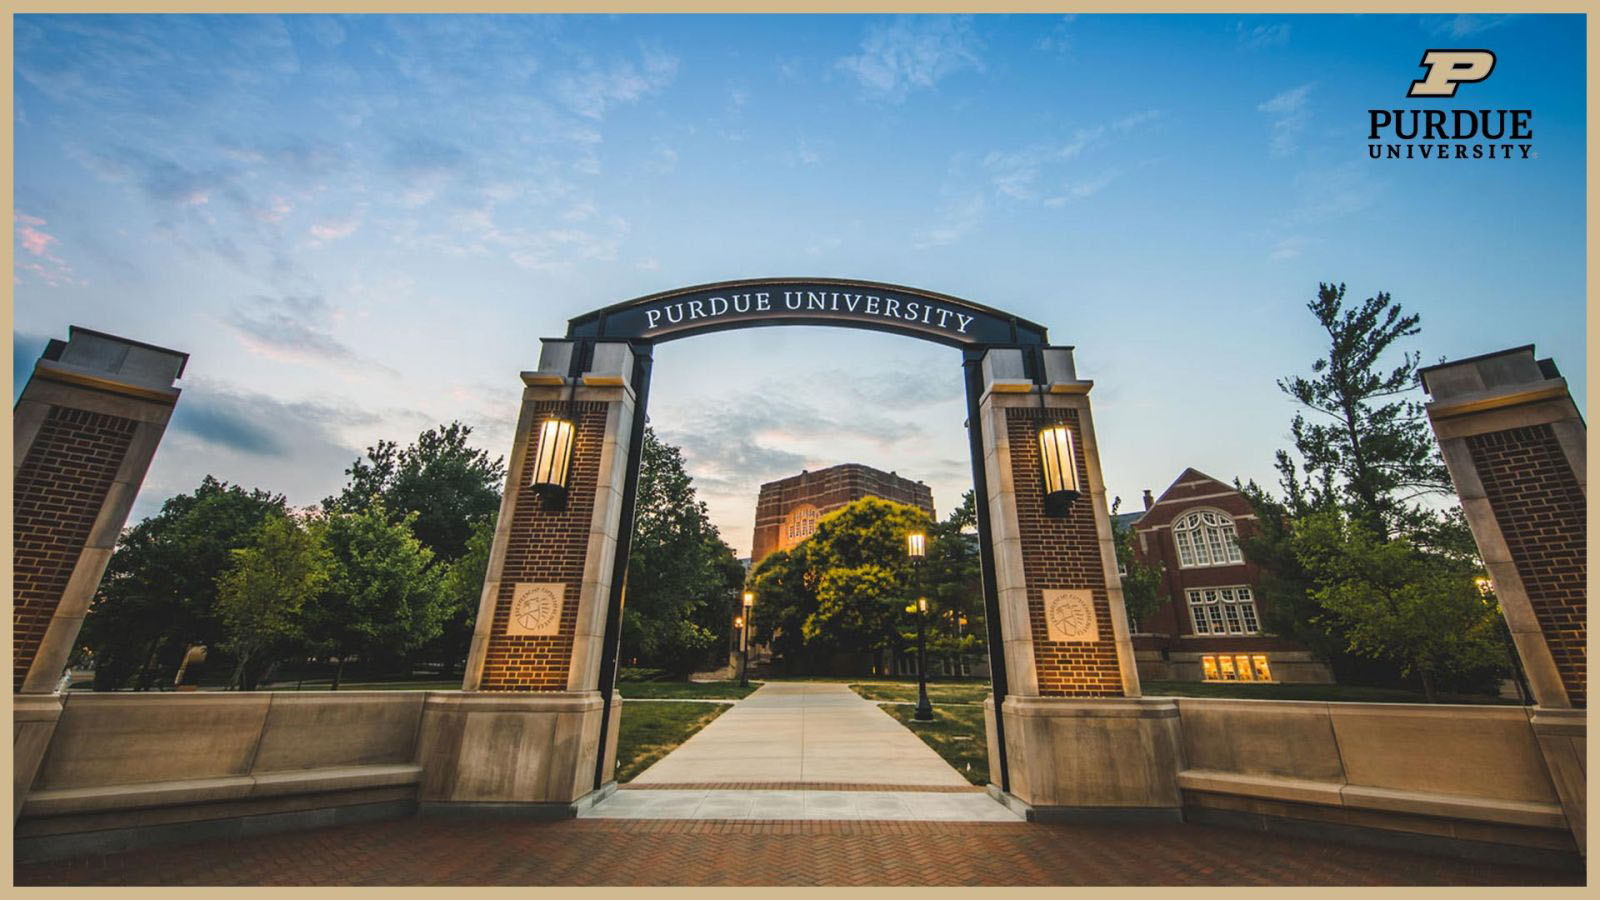
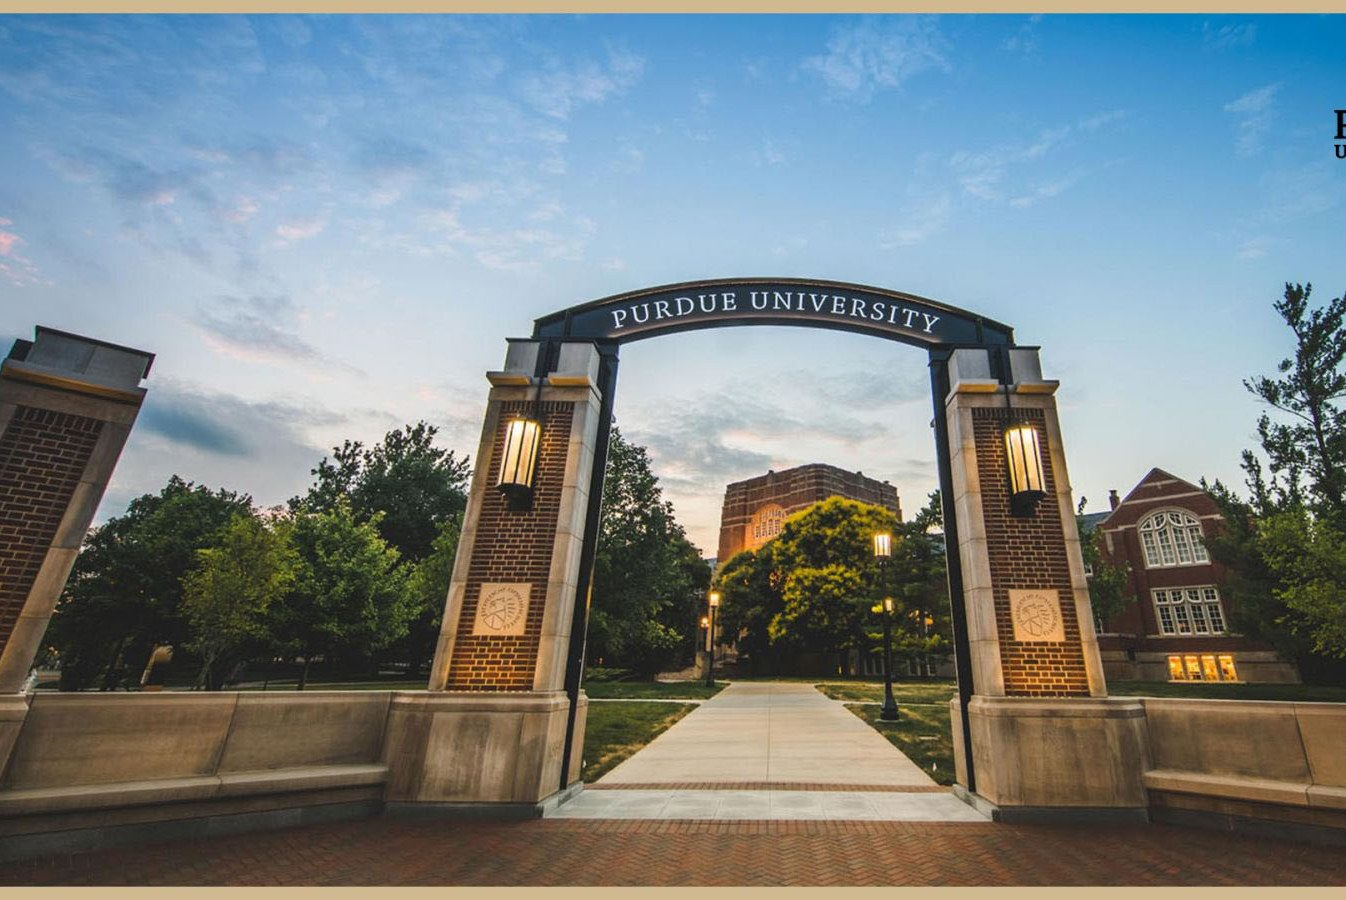
Audit every image on the site
Three corrections, all factual rather than cosmetic:

- Remove about.jpeg from the About section. It is a photo of Troy in an
  apron beside a catered buffet under a Greek-letter flag — a social
  photo occupying the only image slot in the section that introduces him
  as an engineer. About is now single-column until a lab or bench photo
  replaces it.
- Crop the Purdue wordmark and gold border out of the hero background.
  The file is a university marketing wallpaper, and the logo was faintly
  legible through the overlay, implying an affiliation the site should
  not claim.
- Correct the Caterpillar gallery caption. The screenshot is the Python
  dashboard's bottleneck view, not a Power BI report; Power BI is one tab
  inside the tool. The card description was adjusted to match.

Claude-Session: https://claude.ai/code/session_01H34n291vHUsQHTWP9TfPyQ

diff --git a/index.html b/index.html
@@ -274,7 +274,7 @@ h2.section-title{
 /* ============================================================
    ABOUT
    ============================================================ */
-.about-grid{display:grid;grid-template-columns:minmax(0,320px) minmax(0,1fr);gap:56px;align-items:start}
+.about-grid{display:grid;grid-template-columns:minmax(0,1fr);gap:56px;align-items:start;max-width:820px}
 .about-photo{position:sticky;top:calc(var(--nav-h) + 28px)}
 .about-photo img{width:100%;border-radius:var(--radius);box-shadow:var(--shadow-lg);aspect-ratio:3/4;object-fit:cover}
 .about-body p{color:var(--text-2);font-size:1.05rem;margin-bottom:20px}
@@ -568,9 +568,6 @@ footer{padding:36px 0 44px;text-align:center}
 <section class="block" id="about">
   <div class="wrap">
     <div class="about-grid">
-      <div class="about-photo reveal">
-        <img src="about.jpeg" alt="Troy Mayer">
-      </div>
       <div class="about-body reveal">
         <div class="eyebrow">About</div>
         <h2 class="section-title">Mechanism, signal, and the model in between.</h2>
@@ -756,7 +753,7 @@ footer{padding:36px 0 44px;text-align:center}
         </div>
         <div class="card-body">
           <h3>Paint Line Forecasting</h3>
-          <div class="card-org">LSTM · Monte Carlo · Python · Power BI</div>
+          <div class="card-org">LSTM · Monte Carlo · Python · Full-Stack Dashboard</div>
           <p class="card-desc">LSTM sequence forecasting and Monte Carlo variance analysis over months of cleaned legacy data — 5% less material used, 4% off manufacturing cycle time.</p>
           <span class="card-more">Read the write-up <svg viewBox="0 0 24 24" fill="none" stroke="currentColor" stroke-width="2.4" stroke-linecap="round"><path d="M5 12h14M13 6l6 6-6 6"/></svg></span>
         </div>
@@ -1012,7 +1009,7 @@ footer{padding:36px 0 44px;text-align:center}
       <div class="gallery reveal">
         <figure class="shot">
           <img src="Caterpillar.png" alt="Power BI dashboard comparing primer and topcoat usage">
-          <figcaption>Power BI analysis isolating primer and topcoat usage trends across the manual and robotic lines.</figcaption>
+          <figcaption>The bottleneck view of the Python dashboard, ranking paint stages by severity and average deviation to isolate where the manual and robotic lines diverge.</figcaption>
         </figure>
         <figure class="shot">
           <img src="image_041273.png" alt="LSTM forecast versus actual topcoat usage">
